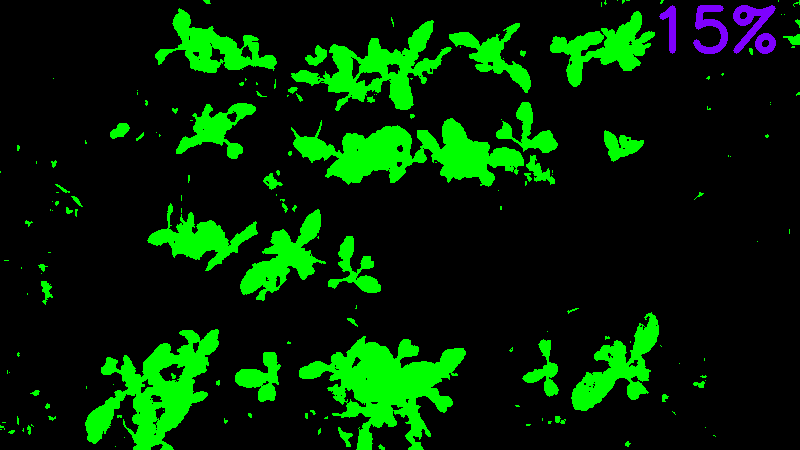
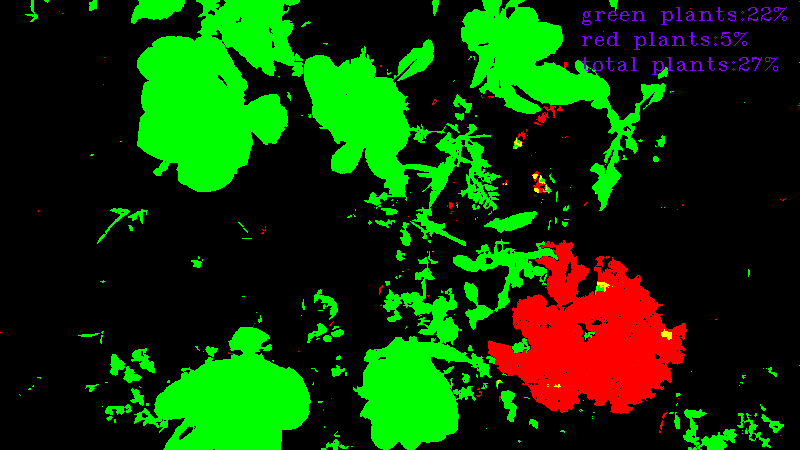
update

diff --git a/countPlantsArea.py b/countPlantsArea.py
@@ -18,14 +18,19 @@ args = vars(ap.parse_args())
 plantsArea = PLANTSAREA(args["image"], reSize)
 
 imgPlants = plantsArea.extractPlantsArea(b_threshold=int(args["green"]), a_threshold=int(args["red"]))
-ratioPlants = plantsArea.countPlantsArea(imgPlants)
+(greenArea, redArea, overlapArea) = plantsArea.countPlantsArea(imgPlants)
+print greenArea, redArea, overlapArea
 
 if (debugPrint==False):
-    print (ratioPlants)
+    print (greenArea, redArea, overlapArea)
 
 else:
-    textRatio = str(int(ratioPlants * 100)) + "%"
-    cv2.putText(imgPlants, textRatio, (imgPlants.shape[1]-150, 50), cv2.FONT_HERSHEY_SIMPLEX, 2, (255, 1, 126), 5)
+    textRatio = str(int((greenArea+redArea-overlapArea) * 100)) + "%"
+
+    font = cv2.FONT_HERSHEY_COMPLEX_SMALL
+    cv2.putText(imgPlants, "green plants:" + str(int((greenArea+overlapArea)*100))+"%", (imgPlants.shape[1]-220, 20), font, 1, (255, 1, 126), 1)
+    cv2.putText(imgPlants, "red plants:" + str(int(redArea*100))+"%", (imgPlants.shape[1]-220, 45), font, 1, (255, 1, 126), 1)
+    cv2.putText(imgPlants, "total plants:" + textRatio, (imgPlants.shape[1]-220, 70), font, 1, (255, 1, 126), 1)
     cv2.imshow("Plants area", imgPlants)
     cv2.imwrite("output.png", imgPlants)
     cv2.waitKey(0)

diff --git a/lib/libFarm.py b/lib/libFarm.py
@@ -21,14 +21,19 @@ class PLANTSAREA:
     def countPlantsArea(self, image):
         width = image.shape[1]
         height = image.shape[0]
-        greenArea = 0.0
-        
+        gArea = 0.0
+        rArea = 0.0
+        grArea = 0.0
+
         for pixel_w in range(0, width, 1):
             for pixel_h in range(0, height, 1):
                 (b, g, r) = image[pixel_h, pixel_w]
-                if((b+g+r)>0):
-                    greenArea += 1     
+                if(g>0):
+                    gArea += 1     
+                if(r>0):
+                    rArea += 1
+                if(r>0 and g>0):
+                    grArea += 1
 
-        plantArea = greenArea / (width*height)
-
-        return plantArea
+        totalArea = width*height
+        return (gArea/totalArea, rArea/totalArea, grArea/totalArea)
